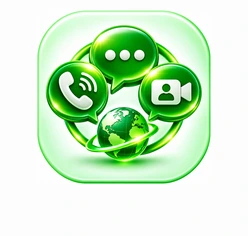
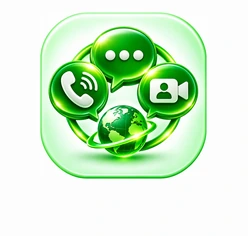
fix(home): Messenger tile v3 — Owner attach with clear label band
Use exact Owner-approved attach as sole source; contain-fit onto a soft
plate matching other tiles; keep bottom clear for independent Messenger
CSS title. No transparency punch, no damaged mint lineage.

Changed region(s): [[0.1411, 0.0297, 0.875, 0.8008]]

diff --git a/index.html b/index.html
@@ -843,7 +843,7 @@ html[data-havkar-entry="home"] .havkar-legal-footer {
         </a>
 
         <a class="menu-item" href="chat.html" data-havkar-tile="messenger">
-            <img src="assets/home/chat.png?v=owner-approved-attach-v2-20261127" alt="HAVKAR Messenger" width="248" height="236">
+            <img src="assets/home/chat.png?v=owner-approved-attach-v3-20261127" alt="HAVKAR Messenger" width="248" height="236">
             <span class="tile-label" data-i18n="Messenger">Messenger</span>
         </a>
 
